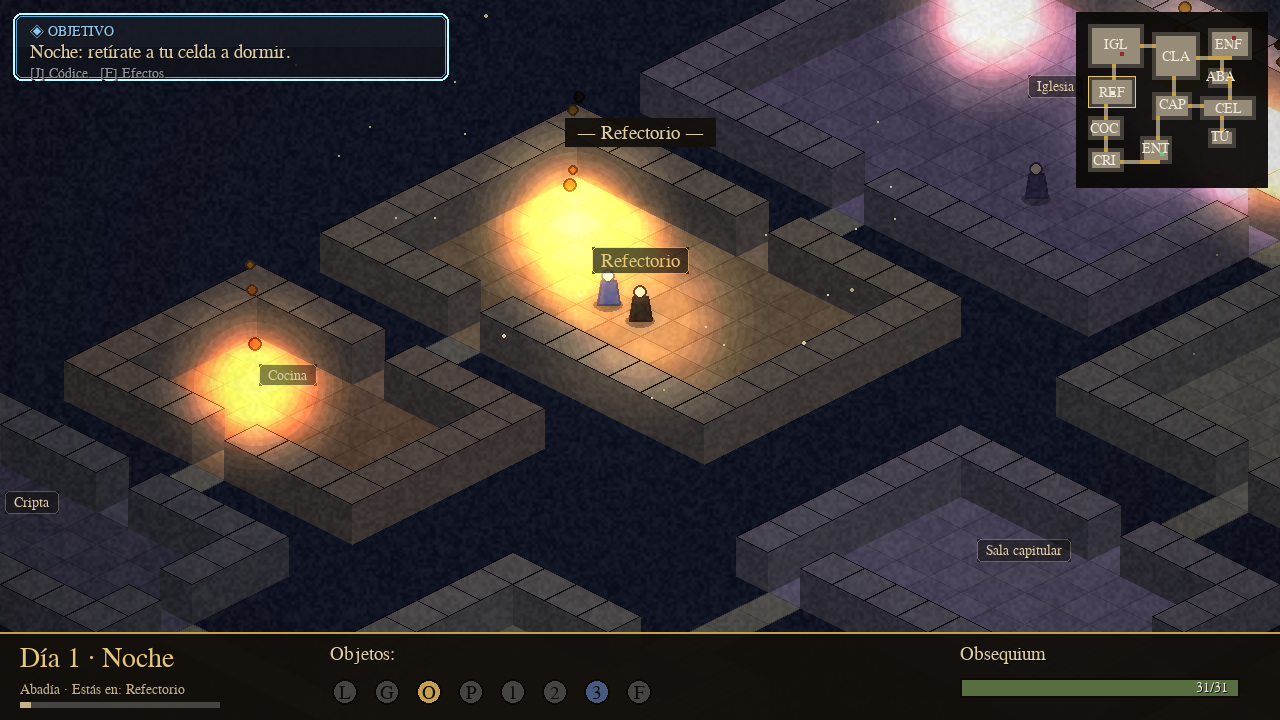
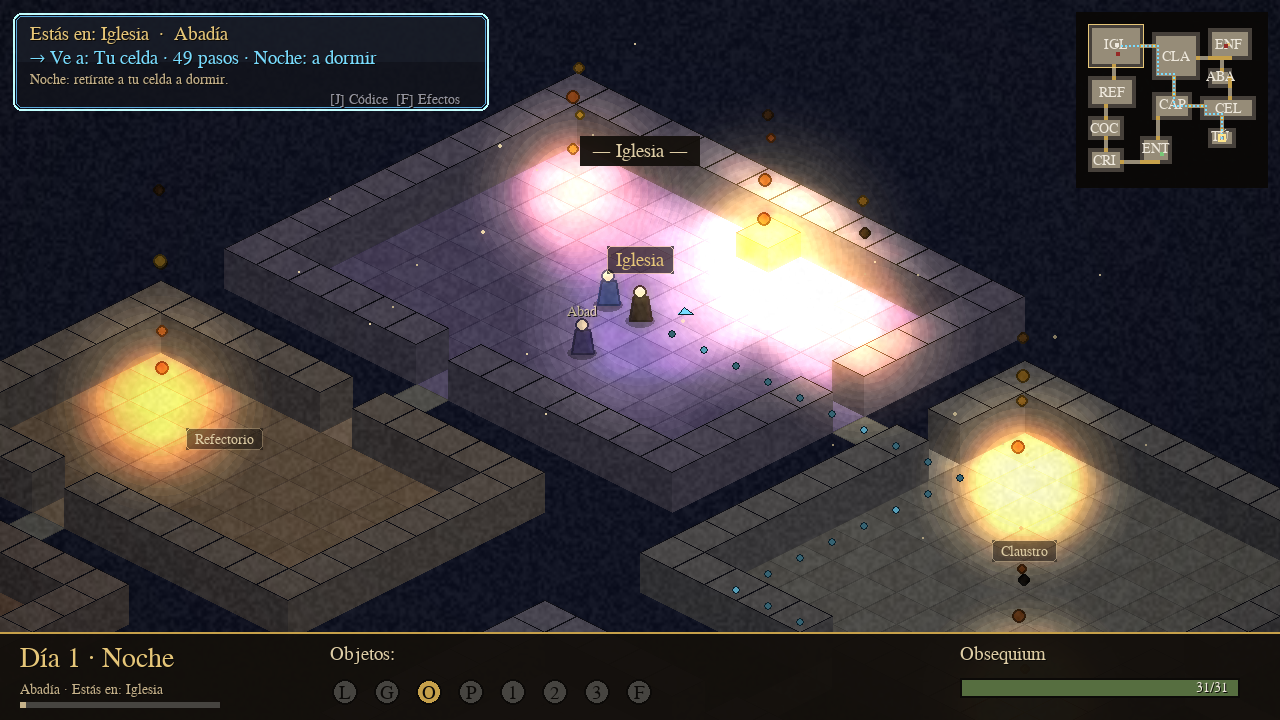
Guía de navegación: dónde estás y a dónde ir, con rastro, flecha y minimapa
El jugador no sabía en qué sala estaba ni a dónde debía ir cuando sonaban
las campanas. Nuevo módulo guia.py:

- Calcula el destino vigente: obligación horaria (iglesia, refectorio, TU
  celda), siguiente objeto visible de la investigación, la sala del espejo en
  el desenlace, o la escalera correcta si el destino está en otra planta.
- Traza la ruta con A* y la dibuja como un rastro de puntos que "fluye" hacia
  el destino, marca el destino con un anillo pulsante y su nombre, y pone una
  flecha junto a Guillermo apuntando al siguiente tramo.
- Minimapa: ruta y destino parpadeante.
- Panel de orientación de tres líneas: "Estás en: X · planta", "→ Ve a: Y ·
  N pasos · motivo" (o "✓ Estás donde debes") y el objetivo de investigación.

Verificado: Vísperas en el claustro → Iglesia (18 pasos); Noche en la iglesia
→ Tu celda (49 pasos); objeto en otra planta → escalera; 76 FPS; guardado.

Claude-Session: https://claude.ai/code/session_017pQpwpmDuETQTNV9qPcNGw

diff --git a/juego/guia.py b/juego/guia.py
@@ -1,0 +1,174 @@
+"""Guía de navegación: a dónde ir ahora y cómo llegar.
+
+Calcula el destino vigente (obligación horaria, siguiente objeto de la
+investigación, escalera a otra planta o el espejo), traza la ruta con A* y la
+dibuja como un rastro de puntos en el suelo, una flecha junto a Guillermo y
+una marca en el minimapa. Es lo que convierte "ve a tu celda" en un camino.
+"""
+from __future__ import annotations
+
+import math
+
+import pygame
+
+from . import config as C
+from .iso import mundo_a_pantalla
+from .pathfinding import a_estrella
+
+# Escalera que hay que tomar en cada planta para dirigirse a otra.
+ESCALERA_HACIA = {
+    (C.PLANTA_BAJA, C.PLANTA_SCRIPTORIUM): (20, 34),
+    (C.PLANTA_BAJA, C.PLANTA_BIBLIOTECA): (20, 34),
+    (C.PLANTA_SCRIPTORIUM, C.PLANTA_BAJA): (4, 4),
+    (C.PLANTA_SCRIPTORIUM, C.PLANTA_BIBLIOTECA): (22, 4),
+    (C.PLANTA_BIBLIOTECA, C.PLANTA_SCRIPTORIUM): (4, 4),
+    (C.PLANTA_BIBLIOTECA, C.PLANTA_BAJA): (4, 4),
+}
+
+COLOR_RUTA = (120, 220, 255)
+COLOR_META = (255, 230, 140)
+
+
+class Guia:
+    def __init__(self) -> None:
+        self.planta = None          # planta del destino final
+        self.tile = None            # tile del destino final
+        self.nombre = ""            # qué es el destino
+        self.motivo = ""            # por qué ("Vísperas", "investigación"...)
+        self.tile_local = None      # objetivo en la planta actual (destino o escalera)
+        self.ruta: list[tuple[int, int]] = []
+        self._clave_ruta = None
+        self.t = 0.0
+
+    # ------------------------------------------------------------------ #
+    def destino(self, juego):
+        """(planta, tile, nombre, motivo) o None si no hay nada que hacer."""
+        r, g, O = juego.reloj, juego.guillermo, juego.objetos
+        mapa = juego.mapa
+        baja = mapa.planta(C.PLANTA_BAJA)
+        zona = baja.zona(*g.tile) if g.planta == C.PLANTA_BAJA else ""
+        m = r.momento
+
+        def ancla(pl, clave, nombre, motivo):
+            gx, gy = mapa.planta(pl).anclas[clave]
+            return pl, (int(gx), int(gy)), nombre, motivo
+
+        # 1) Obligación horaria (cuesta obsequium).
+        if m in C.MOMENTO_IGLESIA and zona != "iglesia":
+            return ancla(C.PLANTA_BAJA, "iglesia", "Iglesia", f"{r.nombre}: oficio")
+        if m in C.MOMENTO_REFECTORIO and zona != "refectorio":
+            return ancla(C.PLANTA_BAJA, "refectorio", "Refectorio", "Sexta: comida")
+        if m in C.MOMENTO_CELDA and zona != "celda":
+            return ancla(C.PLANTA_BAJA, "celda_guillermo", "Tu celda", f"{r.nombre}: a dormir")
+        if m in C.MOMENTO_IGLESIA or m in C.MOMENTO_REFECTORIO or m in C.MOMENTO_CELDA:
+            return None                                   # ya estás donde debes
+
+        # 2) Investigación: siguiente objeto visible que falte.
+        def obj(clave, nombre):
+            o = O[clave]
+            if o.en_suelo:
+                return o.planta, (int(o.gx), int(o.gy)), nombre, "investigación"
+            return None
+
+        for clave, nombre, cond in (("guantes", "Guantes", not juego.tiene("guantes")),
+                                    ("pergamino", "Pergamino de Venancio", not juego.tiene("pergamino")),
+                                    ("gafas", "Gafas", not juego.tiene("gafas")),
+                                    ("lampara", "Lámpara (Adso la llevará)", O["lampara"].portador != "adso")):
+            if cond:
+                d = obj(clave, nombre)
+                if d:
+                    return d
+        listo = (juego.tiene("guantes") and juego.tiene("pergamino") and juego.tiene("gafas")
+                 and O["lampara"].portador == "adso")
+        if listo and r.dia >= 6 and juego.monjes["jorge"].activo:
+            return ancla(C.PLANTA_BIBLIOTECA, "espejo", "Sala del espejo (Jorge)", "desenlace")
+        return None
+
+    # ------------------------------------------------------------------ #
+    def actualizar(self, juego, dt) -> None:
+        self.t += dt
+        d = self.destino(juego)
+        g = juego.guillermo
+        if d is None:
+            self.planta = self.tile = self.tile_local = None
+            self.nombre = self.motivo = ""
+            self.ruta = []
+            self._clave_ruta = None
+            return
+        self.planta, self.tile, self.nombre, self.motivo = d
+        if self.planta == g.planta:
+            self.tile_local = self.tile
+        else:
+            self.tile_local = ESCALERA_HACIA.get((g.planta, self.planta), self.tile)
+        clave = (g.planta, g.tile, self.tile_local)
+        if clave != self._clave_ruta:
+            self._clave_ruta = clave
+            self.ruta = a_estrella(juego.mapa.planta(g.planta), g.tile, self.tile_local)
+
+    @property
+    def pasos(self) -> int:
+        return len(self.ruta)
+
+    def texto(self, juego) -> str:
+        if self.tile is None:
+            m = juego.reloj.momento
+            if m in C.MOMENTO_IGLESIA or m in C.MOMENTO_REFECTORIO or m in C.MOMENTO_CELDA:
+                return "✓ Estás donde debes. Espera a que acabe."
+            return "Sin destino pendiente: explora o espera."
+        via = ""
+        if self.planta != juego.guillermo.planta:
+            via = f" (por la escalera a {C.NOMBRE_PLANTA[self.planta]})"
+        return f"→ Ve a: {self.nombre}{via} · {self.pasos} pasos · {self.motivo}"
+
+    # ------------------------------------------------------------------ #
+    def dibujar_mundo(self, juego, sup, cx, cy) -> None:
+        """Rastro de puntos hasta el destino, marca del destino y flecha."""
+        if not self.ruta:
+            return
+        g = juego.guillermo
+        n = len(self.ruta)
+        for i, (gx, gy) in enumerate(self.ruta):
+            sx, sy = mundo_a_pantalla(gx + 0.5, gy + 0.5, juego.cam_x, juego.cam_y, cx, cy)
+            if not (-20 < sx < C.ANCHO + 20 and -20 < sy < C.ALTO - 80):
+                continue
+            # Pulso que "fluye" hacia el destino.
+            fase = (i - self.t * 6.0) % 5.0
+            brillo = 0.45 + 0.55 * max(0.0, 1.0 - fase / 2.0)
+            col = tuple(int(c * brillo) for c in COLOR_RUTA)
+            r = 4 if i < n - 1 else 7
+            pygame.draw.circle(sup, col, (sx, sy - 2), r)
+            pygame.draw.circle(sup, (10, 30, 40), (sx, sy - 2), r, 1)
+        # Marca del destino local (anillo pulsante + nombre).
+        gx, gy = self.tile_local
+        sx, sy = mundo_a_pantalla(gx + 0.5, gy + 0.5, juego.cam_x, juego.cam_y, cx, cy)
+        if -60 < sx < C.ANCHO + 60 and 0 < sy < C.ALTO - 80:
+            rad = 14 + int(4 * math.sin(self.t * 5))
+            pygame.draw.circle(sup, COLOR_META, (sx, sy), rad, 2)
+            pygame.draw.circle(sup, COLOR_META, (sx, sy), 3)
+            etiqueta = self.nombre if self.planta == g.planta else "Escalera"
+            juego.hud.texto(sup, f"▼ {etiqueta}", sx, sy - rad - 30, juego.hud.f_media,
+                            COLOR_META, centro=True)
+        # Flecha junto a Guillermo hacia el siguiente punto de la ruta.
+        obj = self.ruta[min(2, n - 1)]
+        px, py = mundo_a_pantalla(g.x, g.y, juego.cam_x, juego.cam_y, cx, cy)
+        tx, ty = mundo_a_pantalla(obj[0] + 0.5, obj[1] + 0.5, juego.cam_x, juego.cam_y, cx, cy)
+        dx, dy = tx - px, ty - py
+        d = math.hypot(dx, dy)
+        if d > 1:
+            ux, uy = dx / d, dy / d
+            bx, by = px + ux * 46, py - 20 + uy * 46 * 0.55
+            punta = (bx + ux * 14, by + uy * 14 * 0.55)
+            izq = (bx - uy * 7, by + ux * 7 * 0.55)
+            der = (bx + uy * 7, by - ux * 7 * 0.55)
+            pygame.draw.polygon(sup, COLOR_RUTA, [punta, izq, der])
+            pygame.draw.polygon(sup, (10, 30, 40), [punta, izq, der], 1)
+
+    def dibujar_minimapa(self, juego, sup, mx, my, escala) -> None:
+        if not self.ruta:
+            return
+        for gx, gy in self.ruta:
+            sup.fill(COLOR_RUTA, (mx + gx * escala + 1, my + gy * escala + 1, escala - 2, escala - 2))
+        gx, gy = self.tile_local
+        if int(self.t * 3) % 2 == 0:
+            pygame.draw.rect(sup, COLOR_META, (mx + gx * escala - 2, my + gy * escala - 2,
+                                              escala + 4, escala + 4), 2)

diff --git a/juego/juego.py b/juego/juego.py
@@ -13,6 +13,7 @@ from . import frases, guion
 from .audio import Audio
 from .codex import Codex
 from .efectos import Particulas, PostFX
+from .guia import Guia
 from .hud import HUD
 from .iso import foco_camara, mundo_a_pantalla, profundidad
 from .mapa import Mapa
@@ -90,6 +91,7 @@ class Juego:
         self.cola_dialogo: list[str] = []
         self.tras_dialogo = None
         self.cd_bernardo = 0.0
+        self.guia = Guia()
 
     def mensaje(self, txt, dur=4.0) -> None:
         self.mensajes.append([txt, dur])
@@ -246,6 +248,7 @@ class Juego:
         self.particulas.actualizar(dt, self)
         self._aviso_estancia()
         self._bernardo(dt)
+        self.guia.actualizar(self, dt)
 
         prev_m = self.reloj.momento
         if self.reloj.actualizar(dt):
@@ -572,13 +575,18 @@ class Juego:
         pygame.draw.rect(self.pantalla, borde, (x, y, w, h), 1, border_radius=6)
 
     def _ticker_objetivo(self) -> None:
+        """Panel de orientación: dónde estás, a dónde ir y por qué."""
+        donde = f"Estás en: {self.estancia_actual_nombre()}  ·  {C.NOMBRE_PLANTA[self.guillermo.planta]}"
+        ir = self.guia.texto(self)
         obj = self.codex.objetivo(self)
-        # El panel se ensancha con el texto para que nunca desborde.
-        w = max(430, min(C.ANCHO - 340, self.hud.f_media.size(obj)[0] + 44))
-        self._glass((16, 16, w, 62), alpha=140, borde=(90, 170, 220))
-        self.hud.texto(self.pantalla, "◈ OBJETIVO", 30, 24, self.hud.f_pequena, (140, 200, 240))
-        self.hud.texto(self.pantalla, obj, 30, 42, self.hud.f_media, C.PERGAMINO)
-        self.hud.texto(self.pantalla, "[J] Códice   [F] Efectos", 30, 66,
+        f = self.hud.f_media
+        w = max(470, min(C.ANCHO - 330, max(f.size(donde)[0], f.size(ir)[0], f.size(obj)[0]) + 44))
+        self._glass((16, 16, w, 100), alpha=150, borde=(90, 170, 220))
+        self.hud.texto(self.pantalla, donde, 30, 24, f, C.ORO_CLARO)
+        color_ir = (120, 220, 255) if self.guia.tile is not None else (150, 210, 160)
+        self.hud.texto(self.pantalla, ir, 30, 48, f, color_ir)
+        self.hud.texto(self.pantalla, obj, 30, 72, self.hud.f_pequena, C.PERGAMINO_2)
+        self.hud.texto(self.pantalla, "[J] Códice  [F] Efectos", w - 140, 96,
                        self.hud.f_pequena, (150, 150, 160))
 
     def _overlay_codex(self) -> None:
@@ -672,8 +680,9 @@ class Juego:
             self.fx.aplicar(self.lienzo, real, self._dt)
         else:
             real.blit(self.lienzo, (0, 0))
-        # Etiquetas de las estancias: nítidas, sobre el post-procesado.
+        # Etiquetas de las estancias y guía de navegación: nítidas, sobre el post-procesado.
         self._etiquetas_estancias(planta, cx, cy)
+        self.guia.dibujar_mundo(self, self.pantalla, cx, cy)
 
     def _etiquetas_estancias(self, planta, cx, cy) -> None:
         """Nombre de cada estancia visible, flotando sobre su centro."""
@@ -682,7 +691,7 @@ class Juego:
             nombre = C.NOMBRE_ESTANCIA.get(clave, clave)
             gx, gy = e.centro
             sx, sy = mundo_a_pantalla(gx + 0.5, gy + 0.5, self.cam_x, self.cam_y, cx, cy)
-            if not (-120 < sx < C.ANCHO + 120 and 100 < sy < C.ALTO - 100):
+            if not (-120 < sx < C.ANCHO + 120 and 130 < sy < C.ALTO - 100):
                 continue
             es_actual = clave == actual
             fuente = self.hud.f_media if es_actual else self.hud.f_pequena
@@ -700,7 +709,7 @@ class Juego:
             if pl != self.guillermo.planta:
                 continue
             sx, sy = mundo_a_pantalla(gx + 0.5, gy + 0.5, self.cam_x, self.cam_y, cx, cy)
-            if -60 < sx < C.ANCHO + 60 and 100 < sy < C.ALTO - 90:
+            if -60 < sx < C.ANCHO + 60 and 130 < sy < C.ALTO - 90:
                 self.hud.texto(self.pantalla, "▲ Escalera [E]", sx, sy - 22,
                                self.hud.f_pequena, (150, 230, 150), centro=True)
 

diff --git a/juego/hud.py b/juego/hud.py
@@ -129,12 +129,13 @@ class HUD:
         for m in juego.monjes.values():
             if m.vivo and m.activo and m.planta == juego.guillermo.planta:
                 sup.fill(C.ROJO, (mx + int(m.x) * escala, my + int(m.y) * escala, escala, escala))
+        juego.guia.dibujar_minimapa(juego, sup, mx, my, escala)
         g = juego.guillermo
         sup.fill(C.BLANCO, (mx + int(g.x) * escala - 1, my + int(g.y) * escala - 1, 4, 4))
 
     def _mensajes(self, sup, juego) -> None:
         """Mensajes flotantes; los largos se parten en líneas (nunca se escalan)."""
-        y = 118
+        y = 136
         max_w = C.ANCHO - 340
         for msg, t in juego.mensajes:
             alpha = min(255, int(t * 140))

diff --git a/README.md b/README.md
@@ -16,8 +16,11 @@ objetos** con función, mecánica de **obsequium**, las **7 horas canónicas**, 
 y grano fílmico), **iluminación dinámica** con antorchas cálidas parpadeantes y
 lámpara de aceite, **sistema de partículas** (polvo en suspensión, llamas,
 chispas), **sacudida de cámara**, **transiciones** con fundido, HUD
-**glassmorphism** con ticker de objetivo y un **códice de detective** que
-registra las pistas (tecla `J`).
+**glassmorphism** con ticker de objetivo, un **códice de detective** que
+registra las pistas (tecla `J`) y una **guía de navegación**: el juego te dice
+en qué sala estás y a dónde ir (iglesia, refectorio, tu celda, el siguiente
+objeto o la escalera) con un rastro de puntos en el suelo, una flecha junto a
+Guillermo y el destino marcado en el minimapa.
 
 ![La abadía con iluminación dinámica](assets/nextgen_baja.png)
 
